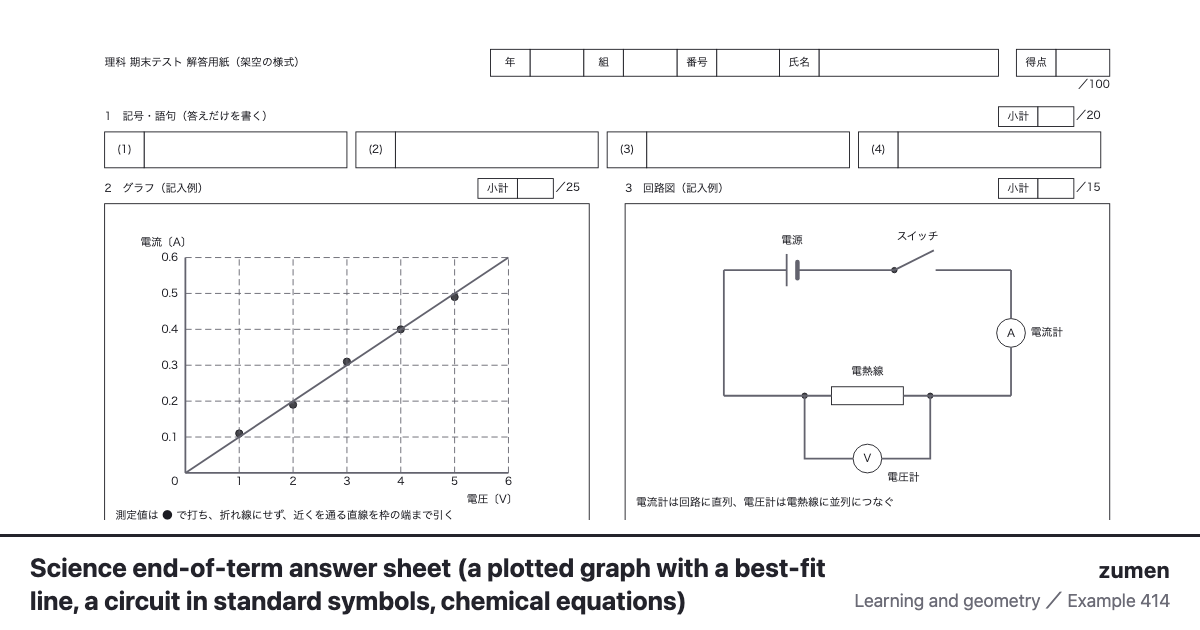
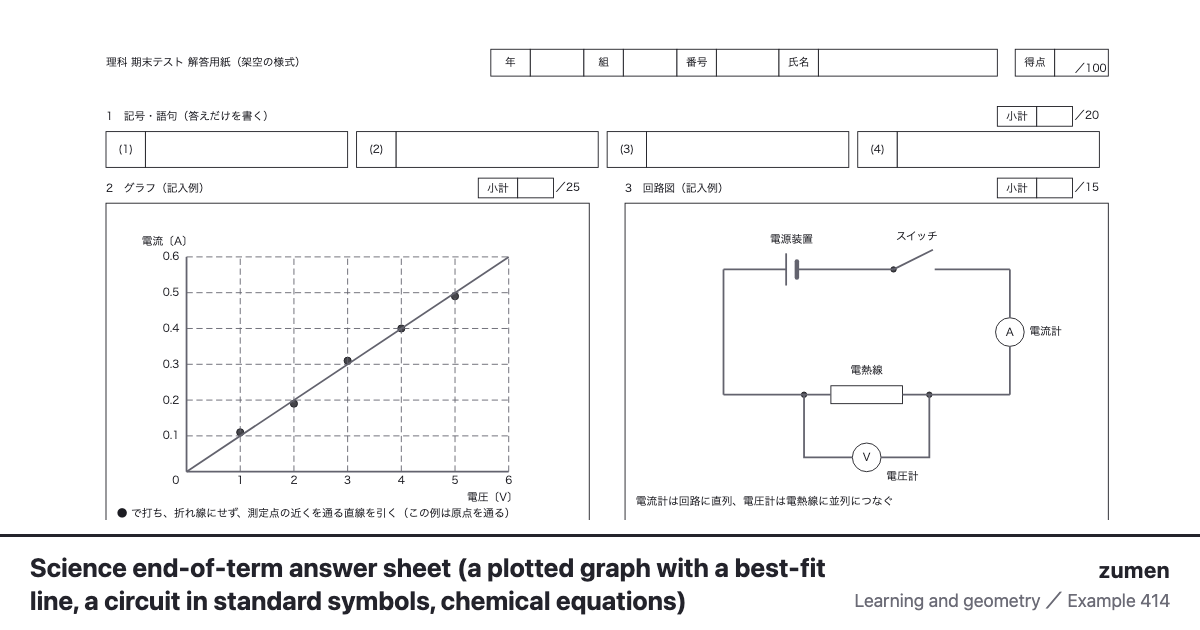
fix(見本): 414 を見直し —— 枠の端までは決まりでない・長い線が＋極
理科の先生の目での見直し。「枠の端まで引く」は宮城県の資料に無いので外し、「測定点の近くを通る直線」に。
電源は「電源装置」、長い線が＋極（ウィキブックス）、電流計・電圧計の＋端子は＋極側（香川県の補充プリント）
を足した。得点欄の「／100」を欄の中へ。直線の傾きは測定値と合っていた。

Claude-Session: https://claude.ai/code/session_01SsuPBZV9YaAZ9NJNDHvP2H

diff --git a/site/index.html b/site/index.html
@@ -353,7 +353,7 @@
     <figure data-cat="manabi"><picture><source srcset="gallery/411-国語の期末テストの解答用紙-dark.svg" media="(prefers-color-scheme: dark)"><img loading="lazy" decoding="async" width="1244" height="1060" src="gallery/411-国語の期末テストの解答用紙.svg" alt="架空の中学校の国語の期末テストの解答用紙。縦書きで、右の一から左へ読む。一は漢字の読み（ひらがなで）と書き（漢字で）の縦長の欄を 4 つずつ、二は記号の小さな四角を問一から問四まで、三は十字で抜き出す縦 10 マス、四は六十字以内の記述で原稿用紙のマス目 15 マス × 4 行。マス目には架空の例文を書き、1 行目の上を 1 マスあける・小さい「っ」も 1 マス・句読点は 1 マスに 1 つで行頭に書かない・行末の句点は最後のマスに前の字と一緒・会話は行を変えてかぎかっこで終わりの。と」は 1 マスに一緒、の 5 つの決まりに丸数字を付け、下の表で説明した。上に組・番・氏名・得点の欄"></picture><figcaption>国語の期末テストの解答用紙（縦書きで右から左へ。記述は原稿用紙のマス目）</figcaption></figure>
     <figure data-cat="manabi"><picture><source srcset="gallery/412-数学の期末テストの解答用紙-dark.svg" media="(prefers-color-scheme: dark)"><img loading="lazy" decoding="async" width="1164" height="1302" src="gallery/412-数学の期末テストの解答用紙.svg" alt="架空の中学校の数学の期末テストの解答用紙。上に年・組・番号・氏名・得点の欄。1 は答えだけを書く計算の欄、2 は cm・cm²・度の単位を刷り込んだ欄、3 は（解）の欄に式と考え方を書き、答は右の欄に分けて書く文章題。4 は線分 AB の垂直二等分線の作図で、A と B を中心にかいたコンパスの弧が交わる点 P・Q を結び、作図に使った弧を消さずに残した記入例。5 は原点 O と x 軸・y 軸と 1 目盛り 1 の方眼に、格子点 (0, 1) と (2, 2) を打って y = (1/2)x + 1 の直線を引いた記入例。6 は仮定・結論・証明の欄。下に、根号の中は最も小さい自然数・分数は約分・分母の有理化・円周率は π・作図の線は消さない・求め方を書く欄、という入試の注意を出典の県と並べた"></picture><figcaption>数学の期末テストの解答用紙（答えだけの欄・求め方の欄・作図・グラフ・証明。作図とグラフは記入例つき）</figcaption></figure>
     <figure data-cat="manabi"><picture><source srcset="gallery/413-英語の期末テストの解答用紙-dark.svg" media="(prefers-color-scheme: dark)"><img loading="lazy" decoding="async" width="1204" height="1068" src="gallery/413-英語の期末テストの解答用紙.svg" alt="架空の中学校の英語の期末テストの解答用紙。上から、記号で答えるリスニングの欄（放送の回数は問題ごとに放送で言う）、ア〜オを並べた順に記号を書く並べかえの欄、4 本ずつの罫が 3 段ある英作文の欄と語数を書く欄。英作文には 12 語の記入例を添え、短縮形 I'm は 1 語、コンマとピリオドは数えないと示した。その下に英語を書く 4 線を大きく描き、上からアセンダライン・ミーンライン・基線（太線）・ディセンダラインと名前を付け、大文字・a c e などの小文字・b d f h k l・g j p q y がどの線からどの線まで入るかを縦の帯で示した。下に書くときの決まりの一覧"></picture><figcaption>英語の期末テストの解答用紙（4 線の罫・並べかえ・語数を数える英作文）</figcaption></figure>
-    <figure data-cat="manabi"><picture><source srcset="gallery/414-理科の期末テストの解答用紙-dark.svg" media="(prefers-color-scheme: dark)"><img loading="lazy" decoding="async" width="1184" height="1054" src="gallery/414-理科の期末テストの解答用紙.svg" alt="架空の中学校の理科の期末テストの解答用紙。上に年・組・番号・氏名・得点の欄、大問ごとに小計と配点の欄。1 は記号・語句を答えだけ書く欄。2 はグラフの記入例で、横軸に電圧〔V〕、縦軸に電流〔A〕をとった方眼に測定値を黒丸で打ち、折れ線にせず原点を通る直線を枠の端まで引いた。3 は回路図の記入例で、電源（長い線と短い線）・スイッチ・電熱線（長方形）をつなぎ、電流計Ⓐを直列に、電圧計Ⓥを電熱線に並列につないだ。4 は化学式と化学反応式の欄で、記入例 2H₂ ＋ O₂ → 2H₂O。5 は理由を書く記述欄。下にグラフのかき方・単位の〔 〕・電気用図記号の注意"></picture><figcaption>理科の期末テストの解答用紙（点で打って直線を引くグラフ・電気用図記号の回路図・化学反応式）</figcaption></figure>
+    <figure data-cat="manabi"><picture><source srcset="gallery/414-理科の期末テストの解答用紙-dark.svg" media="(prefers-color-scheme: dark)"><img loading="lazy" decoding="async" width="1184" height="1104" src="gallery/414-理科の期末テストの解答用紙.svg" alt="架空の中学校の理科の期末テストの解答用紙。上に年・組・番号・氏名・得点の欄、大問ごとに小計と配点の欄。1 は記号・語句を答えだけ書く欄。2 はグラフの記入例で、横軸に電圧〔V〕、縦軸に電流〔A〕をとった方眼に測定値を黒丸で打ち、折れ線にせず原点を通る直線を枠の端まで引いた。3 は回路図の記入例で、電源装置（長い線が＋極）・スイッチ・電熱線（長方形）をつなぎ、電流計Ⓐを直列に、電圧計Ⓥを電熱線に並列につないだ。4 は化学式と化学反応式の欄で、記入例 2H₂ ＋ O₂ → 2H₂O。5 は理由を書く記述欄。下にグラフのかき方・単位の〔 〕・電気用図記号の注意"></picture><figcaption>理科の期末テストの解答用紙（点で打って直線を引くグラフ・電気用図記号の回路図・化学反応式）</figcaption></figure>
     <figure data-cat="manabi"><picture><source srcset="gallery/402-時差の世界地図-経度の帯と国が決めた時-dark.svg" media="(prefers-color-scheme: dark)"><img loading="lazy" decoding="async" width="1010" height="1082" src="gallery/402-時差の世界地図-経度の帯と国が決めた時.svg" alt="太平洋を真ん中に置いた世界地図に、経度 15° ごとの時差の帯（−2〜±12〜−3）を破線で引き、20 都市の実際の標準時を札で置いた図。経度どおりは白、国で決めて 1 時間以上ずれる所（ソウル・ラサ・マドリード・ホノルル）は青、30 分・45 分ずらす所（コルカタ +5:30・カトマンズ +5:45 など）は橙、経度 180° より東なのに日付が先の所（キリティマティ +14・アピア +13・チャタム +12:45）は紫。日本の標準時の東経 135° を赤い線で。下に都市ごとの経度・経度で決めた時差・標準時・夏時間・わけの表"></picture><figcaption>時差の世界地図（経度の帯と、国が決めた時）</figcaption></figure>
     <figure data-cat="manabi"><picture><source srcset="gallery/400-大圏航路と等角航路-東京からニューヨーク-dark.svg" media="(prefers-color-scheme: dark)"><img loading="lazy" decoding="async" width="1089" height="828" src="gallery/400-大圏航路と等角航路-東京からニューヨーク.svg" alt="東京からニューヨークへの 2 つの道を 2 つの図法で並べた図。左のメルカトル図法では、最短の大圏航路（赤）がアラスカの上まで北へ弧を描き、方位を一定に保つ等角航路（青の点線）がまっすぐな線になる。右の東京中心の正距方位図法では逆に、大圏航路が東京から引いた直線になり、等角航路が曲がる。5,000km・10,000km の距離の輪つき。下に長さ（約 10,850km と約 12,780km）と東京を出る向きの表"></picture><figcaption>大圏航路と等角航路（地図の直線は最短とは限らない）</figcaption></figure>
     <figure data-cat="manabi"><picture><source srcset="gallery/376-水面の波の干渉-線の本数-dark.svg" media="(prefers-color-scheme: dark)"><img loading="lazy" decoding="async" width="1396" height="1300" src="gallery/376-水面の波の干渉-線の本数.svg" alt="同じ波を出す 2 つの波源から広がる山と谷の円と、強め合う線（腹線）5 本・弱め合う線（節線）4 本を双曲線で描いた水面の干渉の図。距離の差が波長の整数倍で強め合い、半端で弱め合うことと、線の本数が波源の間隔と波長の比で決まること（d＝2.4λ で 5 本）を表と数直線で示している"></picture><figcaption>水面の波の干渉（線の本数は、波源の間隔と波長で決まる）</figcaption></figure>

diff --git a/site/all/index.html b/site/all/index.html
@@ -281,7 +281,7 @@
       <li data-name="411 国語の期末テストの解答用紙（縦書きで右から左へ。記述は原稿用紙のマス目） A fictional junior-high answer sheet for the Japanese-language test, in vertical lines read right to left: kanji boxes, multiple-choice boxes, a 10-square quote box and a 60-character answer on genko-yoshi squares. A sample answer shows five rules: indent one square, small kana take a square, no full stop at the top of a line, and dialogue starts a new line. 学び・図学"><a href="../g/411/"><img src="../gallery/411-%E5%9B%BD%E8%AA%9E%E3%81%AE%E6%9C%9F%E6%9C%AB%E3%83%86%E3%82%B9%E3%83%88%E3%81%AE%E8%A7%A3%E7%AD%94%E7%94%A8%E7%B4%99.svg" alt="架空の中学校の国語の期末テストの解答用紙。縦書きで、右の一から左へ読む。一は漢字の読み（ひらがなで）と書き（漢字で）の縦長の欄を 4 つずつ、二は記号の小さな四角を問一から問四まで、三は十字で抜き出す縦 10 マス、四は六十字以内の記述で原稿用紙のマス目 15 マス × 4 行。マス目には架空の例文を書き、1 行目の上を 1 マスあける・小さい「っ」も 1 マス・句読点は 1 マスに 1 つで行頭に書かない・行末の句点は最後のマスに前の字と一緒・会話は行を変えてかぎかっこで終わりの。と」は 1 マスに一緒、の 5 つの決まりに丸数字を付け、下の表で説明した。上に組・番・氏名・得点の欄" width="1244" height="1060" loading="lazy" decoding="async"><span>国語の期末テストの解答用紙（縦書きで右から左へ。記述は原稿用紙のマス目）</span></a></li>
       <li data-name="412 数学の期末テストの解答用紙（答えだけの欄・求め方の欄・作図・グラフ・証明。作図とグラフは記入例つき） A fictional Japanese junior-high maths answer sheet. Answer-only boxes, boxes with the unit (cm, cm², degrees) printed in, a working box kept apart from the answer, an example perpendicular bisector constructed with the compass arcs left in, an example graph of y = (1/2)x + 1 drawn through two lattice points, and a proof box with hypothesis and conclusion. Below, entrance-exam answer rules. 学び・図学"><a href="../g/412/"><img src="../gallery/412-%E6%95%B0%E5%AD%A6%E3%81%AE%E6%9C%9F%E6%9C%AB%E3%83%86%E3%82%B9%E3%83%88%E3%81%AE%E8%A7%A3%E7%AD%94%E7%94%A8%E7%B4%99.svg" alt="架空の中学校の数学の期末テストの解答用紙。上に年・組・番号・氏名・得点の欄。1 は答えだけを書く計算の欄、2 は cm・cm²・度の単位を刷り込んだ欄、3 は（解）の欄に式と考え方を書き、答は右の欄に分けて書く文章題。4 は線分 AB の垂直二等分線の作図で、A と B を中心にかいたコンパスの弧が交わる点 P・Q を結び、作図に使った弧を消さずに残した記入例。5 は原点 O と x 軸・y 軸と 1 目盛り 1 の方眼に、格子点 (0, 1) と (2, 2) を打って y = (1/2)x + 1 の直線を引いた記入例。6 は仮定・結論・証明の欄。下に、根号の中は最も小さい自然数・分数は約分・分母の有理化・円周率は π・作図の線は消さない・求め方を書く欄、という入試の注意を出典の県と並べた" width="1164" height="1302" loading="lazy" decoding="async"><span>数学の期末テストの解答用紙（答えだけの欄・求め方の欄・作図・グラフ・証明。作図とグラフは記入例つき）</span></a></li>
       <li data-name="413 英語の期末テストの解答用紙（4 線の罫・並べかえ・語数を数える英作文） A fictional junior-high English answer sheet: listening answers by letter, word-order boxes, and a composition on four-line ruled paper with a box for the word count (a contraction like I'm counts as one word; commas and periods do not). Below, the four lines drawn large and named, with bars showing which lines capitals, x-height letters, b d f h k l and g j p q y reach. 学び・図学"><a href="../g/413/"><img src="../gallery/413-%E8%8B%B1%E8%AA%9E%E3%81%AE%E6%9C%9F%E6%9C%AB%E3%83%86%E3%82%B9%E3%83%88%E3%81%AE%E8%A7%A3%E7%AD%94%E7%94%A8%E7%B4%99.svg" alt="架空の中学校の英語の期末テストの解答用紙。上から、記号で答えるリスニングの欄（放送の回数は問題ごとに放送で言う）、ア〜オを並べた順に記号を書く並べかえの欄、4 本ずつの罫が 3 段ある英作文の欄と語数を書く欄。英作文には 12 語の記入例を添え、短縮形 I'm は 1 語、コンマとピリオドは数えないと示した。その下に英語を書く 4 線を大きく描き、上からアセンダライン・ミーンライン・基線（太線）・ディセンダラインと名前を付け、大文字・a c e などの小文字・b d f h k l・g j p q y がどの線からどの線まで入るかを縦の帯で示した。下に書くときの決まりの一覧" width="1204" height="1068" loading="lazy" decoding="async"><span>英語の期末テストの解答用紙（4 線の罫・並べかえ・語数を数える英作文）</span></a></li>
-      <li data-name="414 理科の期末テストの解答用紙（点で打って直線を引くグラフ・電気用図記号の回路図・化学反応式） A fictional Japanese junior-high science answer sheet. The graph example plots voltage against current as dots and draws one straight line through the origin to the edge of the grid, never joining the dots. The circuit example uses standard symbols, with the ammeter in series and the voltmeter across the heater. Units go in brackets, as in Japanese exams. 学び・図学"><a href="../g/414/"><img src="../gallery/414-%E7%90%86%E7%A7%91%E3%81%AE%E6%9C%9F%E6%9C%AB%E3%83%86%E3%82%B9%E3%83%88%E3%81%AE%E8%A7%A3%E7%AD%94%E7%94%A8%E7%B4%99.svg" alt="架空の中学校の理科の期末テストの解答用紙。上に年・組・番号・氏名・得点の欄、大問ごとに小計と配点の欄。1 は記号・語句を答えだけ書く欄。2 はグラフの記入例で、横軸に電圧〔V〕、縦軸に電流〔A〕をとった方眼に測定値を黒丸で打ち、折れ線にせず原点を通る直線を枠の端まで引いた。3 は回路図の記入例で、電源（長い線と短い線）・スイッチ・電熱線（長方形）をつなぎ、電流計Ⓐを直列に、電圧計Ⓥを電熱線に並列につないだ。4 は化学式と化学反応式の欄で、記入例 2H₂ ＋ O₂ → 2H₂O。5 は理由を書く記述欄。下にグラフのかき方・単位の〔 〕・電気用図記号の注意" width="1184" height="1054" loading="lazy" decoding="async"><span>理科の期末テストの解答用紙（点で打って直線を引くグラフ・電気用図記号の回路図・化学反応式）</span></a></li>
+      <li data-name="414 理科の期末テストの解答用紙（点で打って直線を引くグラフ・電気用図記号の回路図・化学反応式） A fictional Japanese junior-high science answer sheet. The graph example plots voltage against current as dots and draws one straight line through the origin to the edge of the grid, never joining the dots. The circuit example uses standard symbols, with the ammeter in series and the voltmeter across the heater. Units go in brackets, as in Japanese exams. 学び・図学"><a href="../g/414/"><img src="../gallery/414-%E7%90%86%E7%A7%91%E3%81%AE%E6%9C%9F%E6%9C%AB%E3%83%86%E3%82%B9%E3%83%88%E3%81%AE%E8%A7%A3%E7%AD%94%E7%94%A8%E7%B4%99.svg" alt="架空の中学校の理科の期末テストの解答用紙。上に年・組・番号・氏名・得点の欄、大問ごとに小計と配点の欄。1 は記号・語句を答えだけ書く欄。2 はグラフの記入例で、横軸に電圧〔V〕、縦軸に電流〔A〕をとった方眼に測定値を黒丸で打ち、折れ線にせず原点を通る直線を枠の端まで引いた。3 は回路図の記入例で、電源装置（長い線が＋極）・スイッチ・電熱線（長方形）をつなぎ、電流計Ⓐを直列に、電圧計Ⓥを電熱線に並列につないだ。4 は化学式と化学反応式の欄で、記入例 2H₂ ＋ O₂ → 2H₂O。5 は理由を書く記述欄。下にグラフのかき方・単位の〔 〕・電気用図記号の注意" width="1184" height="1104" loading="lazy" decoding="async"><span>理科の期末テストの解答用紙（点で打って直線を引くグラフ・電気用図記号の回路図・化学反応式）</span></a></li>
     </ul>
   </section>
   <section class="field" data-field="楽器・音響">

diff --git a/site/en/index.html b/site/en/index.html
@@ -326,7 +326,7 @@
     <figure data-cat="manabi"><picture><source srcset="../gallery/411-国語の期末テストの解答用紙-dark.svg" media="(prefers-color-scheme: dark)"><img loading="lazy" decoding="async" width="1244" height="1060" src="../gallery/411-国語の期末テストの解答用紙.svg" alt="A fictional junior-high answer sheet for the Japanese-language test, in vertical lines read right to left: kanji boxes, multiple-choice boxes, a 10-square quote box and a 60-character answer on genko-yoshi squares. A sample answer shows five rules: indent one square, small kana take a square, no full stop at the top of a line, and dialogue starts a new line."></picture><figcaption>A fictional junior-high answer sheet for the Japanese-language test, in vertical lines read right to left: kanji boxes, multiple-choice boxes, a 10-square quote box and a 60-character answer on genko-yoshi squares. A sample answer shows five rules: indent one square, small kana take a square, no full stop at the top of a line, and dialogue starts a new line.</figcaption></figure>
     <figure data-cat="manabi"><picture><source srcset="../gallery/412-数学の期末テストの解答用紙-dark.svg" media="(prefers-color-scheme: dark)"><img loading="lazy" decoding="async" width="1164" height="1302" src="../gallery/412-数学の期末テストの解答用紙.svg" alt="A fictional Japanese junior-high maths answer sheet. Answer-only boxes, boxes with the unit (cm, cm², degrees) printed in, a working box kept apart from the answer, an example perpendicular bisector constructed with the compass arcs left in, an example graph of y = (1/2)x + 1 drawn through two lattice points, and a proof box with hypothesis and conclusion. Below, entrance-exam answer rules."></picture><figcaption>A fictional Japanese junior-high maths answer sheet. Answer-only boxes, boxes with the unit (cm, cm², degrees) printed in, a working box kept apart from the answer, an example perpendicular bisector constructed with the compass arcs left in, an example graph of y = (1/2)x + 1 drawn through two lattice points, and a proof box with hypothesis and conclusion. Below, entrance-exam answer rules.</figcaption></figure>
     <figure data-cat="manabi"><picture><source srcset="../gallery/413-英語の期末テストの解答用紙-dark.svg" media="(prefers-color-scheme: dark)"><img loading="lazy" decoding="async" width="1204" height="1068" src="../gallery/413-英語の期末テストの解答用紙.svg" alt="A fictional junior-high English answer sheet: listening answers by letter, word-order boxes, and a composition on four-line ruled paper with a box for the word count (a contraction like I'm counts as one word; commas and periods do not). Below, the four lines drawn large and named, with bars showing which lines capitals, x-height letters, b d f h k l and g j p q y reach."></picture><figcaption>A fictional junior-high English answer sheet: listening answers by letter, word-order boxes, and a composition on four-line ruled paper with a box for the word count (a contraction like I'm counts as one word; commas and periods do not). Below, the four lines drawn large and named, with bars showing which lines capitals, x-height letters, b d f h k l and g j p q y reach.</figcaption></figure>
-    <figure data-cat="manabi"><picture><source srcset="../gallery/414-理科の期末テストの解答用紙-dark.svg" media="(prefers-color-scheme: dark)"><img loading="lazy" decoding="async" width="1184" height="1054" src="../gallery/414-理科の期末テストの解答用紙.svg" alt="A fictional Japanese junior-high science answer sheet. The graph example plots voltage against current as dots and draws one straight line through the origin to the edge of the grid, never joining the dots. The circuit example uses standard symbols, with the ammeter in series and the voltmeter across the heater. Units go in brackets, as in Japanese exams."></picture><figcaption>A fictional Japanese junior-high science answer sheet. The graph example plots voltage against current as dots and draws one straight line through the origin to the edge of the grid, never joining the dots. The circuit example uses standard symbols, with the ammeter in series and the voltmeter across the heater. Units go in brackets, as in Japanese exams.</figcaption></figure>
+    <figure data-cat="manabi"><picture><source srcset="../gallery/414-理科の期末テストの解答用紙-dark.svg" media="(prefers-color-scheme: dark)"><img loading="lazy" decoding="async" width="1184" height="1104" src="../gallery/414-理科の期末テストの解答用紙.svg" alt="A fictional Japanese junior-high science answer sheet. The graph example plots voltage against current as dots and draws one straight line through the origin to the edge of the grid, never joining the dots. The circuit example uses standard symbols, with the ammeter in series and the voltmeter across the heater. Units go in brackets, as in Japanese exams."></picture><figcaption>A fictional Japanese junior-high science answer sheet. The graph example plots voltage against current as dots and draws one straight line through the origin to the edge of the grid, never joining the dots. The circuit example uses standard symbols, with the ammeter in series and the voltmeter across the heater. Units go in brackets, as in Japanese exams.</figcaption></figure>
     <figure data-cat="manabi"><picture><source srcset="../gallery/402-時差の世界地図-経度の帯と国が決めた時-dark.svg" media="(prefers-color-scheme: dark)"><img loading="lazy" decoding="async" width="1010" height="1082" src="../gallery/402-時差の世界地図-経度の帯と国が決めた時.svg" alt="Every 15 degrees of longitude is an hour, but clocks follow borders. Twenty cities from the IANA tz database sit on the nominal bands: Seoul keeps Japan's 135-degree time, all of China keeps +8, Kolkata +5:30 and Kathmandu +5:45, and Kiritimati and Apia lie east of 180 degrees yet keep +14 and +13, a whole day ahead of Pago Pago next door."></picture><figcaption>Every 15 degrees of longitude is an hour, but clocks follow borders. Twenty cities from the IANA tz database sit on the nominal bands: Seoul keeps Japan's 135-degree time, all of China keeps +8, Kolkata +5:30 and Kathmandu +5:45, and Kiritimati and Apia lie east of 180 degrees yet keep +14 and +13, a whole day ahead of Pago Pago next door.</figcaption></figure>
     <figure data-cat="manabi"><picture><source srcset="../gallery/400-大圏航路と等角航路-東京からニューヨーク-dark.svg" media="(prefers-color-scheme: dark)"><img loading="lazy" decoding="async" width="1089" height="828" src="../gallery/400-大圏航路と等角航路-東京からニューヨーク.svg" alt="Tokyo to New York two ways on two projections: on Mercator the shortest great-circle route arcs up over Alaska while the constant-bearing rhumb line is straight; on an azimuthal equidistant map centred on Tokyo the great circle is the straight line and the rhumb line bends. About 10,850 km against 12,780 km."></picture><figcaption>Tokyo to New York two ways on two projections: on Mercator the shortest great-circle route arcs up over Alaska while the constant-bearing rhumb line is straight; on an azimuthal equidistant map centred on Tokyo the great circle is the straight line and the rhumb line bends. About 10,850 km against 12,780 km.</figcaption></figure>
     <figure data-cat="manabi"><picture><source srcset="../gallery/376-水面の波の干渉-線の本数-dark.svg" media="(prefers-color-scheme: dark)"><img loading="lazy" decoding="async" width="1396" height="1300" src="../gallery/376-水面の波の干渉-線の本数.svg" alt="Two-source interference on water: crests and troughs from two sources in step, with five lines of reinforcement and four of cancellation drawn as hyperbolas. The path difference can never exceed the source spacing, so the number of lines is fixed by spacing divided by wavelength"></picture><figcaption>Two-source interference on water: crests and troughs from two sources in step, with five lines of reinforcement and four of cancellation drawn as hyperbolas. The path difference can never exceed the source spacing, so the number of lines is fixed by spacing divided by wavelength</figcaption></figure>

diff --git a/site/en/all/index.html b/site/en/all/index.html
@@ -281,7 +281,7 @@
       <li data-name="411 国語の期末テストの解答用紙（縦書きで右から左へ。記述は原稿用紙のマス目） A fictional junior-high answer sheet for the Japanese-language test, in vertical lines read right to left: kanji boxes, multiple-choice boxes, a 10-square quote box and a 60-character answer on genko-yoshi squares. A sample answer shows five rules: indent one square, small kana take a square, no full stop at the top of a line, and dialogue starts a new line. Learning and geometry"><a href="../g/411/"><img src="../../gallery/411-%E5%9B%BD%E8%AA%9E%E3%81%AE%E6%9C%9F%E6%9C%AB%E3%83%86%E3%82%B9%E3%83%88%E3%81%AE%E8%A7%A3%E7%AD%94%E7%94%A8%E7%B4%99.svg" alt="A fictional junior-high answer sheet for the Japanese-language test, in vertical lines read right to left: kanji boxes, multiple-choice boxes, a 10-square quote box and a 60-character answer on genko-yoshi squares. A sample answer shows five rules: indent one square, small kana take a square, no full stop at the top of a line, and dialogue starts a new line." width="1244" height="1060" loading="lazy" decoding="async"><span>A fictional junior-high answer sheet for the Japanese-language test, in vertical lines read right to left: kanji boxes, multiple-choice boxes, a 10-square quote box and a 60-character answer on genko-yoshi squares. A sample answer shows five rules: indent one square, small kana take a square, no full stop at the top of a line, and dialogue starts a new line.</span></a></li>
       <li data-name="412 数学の期末テストの解答用紙（答えだけの欄・求め方の欄・作図・グラフ・証明。作図とグラフは記入例つき） A fictional Japanese junior-high maths answer sheet. Answer-only boxes, boxes with the unit (cm, cm², degrees) printed in, a working box kept apart from the answer, an example perpendicular bisector constructed with the compass arcs left in, an example graph of y = (1/2)x + 1 drawn through two lattice points, and a proof box with hypothesis and conclusion. Below, entrance-exam answer rules. Learning and geometry"><a href="../g/412/"><img src="../../gallery/412-%E6%95%B0%E5%AD%A6%E3%81%AE%E6%9C%9F%E6%9C%AB%E3%83%86%E3%82%B9%E3%83%88%E3%81%AE%E8%A7%A3%E7%AD%94%E7%94%A8%E7%B4%99.svg" alt="A fictional Japanese junior-high maths answer sheet. Answer-only boxes, boxes with the unit (cm, cm², degrees) printed in, a working box kept apart from the answer, an example perpendicular bisector constructed with the compass arcs left in, an example graph of y = (1/2)x + 1 drawn through two lattice points, and a proof box with hypothesis and conclusion. Below, entrance-exam answer rules." width="1164" height="1302" loading="lazy" decoding="async"><span>A fictional Japanese junior-high maths answer sheet. Answer-only boxes, boxes with the unit (cm, cm², degrees) printed in, a working box kept apart from the answer, an example perpendicular bisector constructed with the compass arcs left in, an example graph of y = (1/2)x + 1 drawn through two lattice points, and a proof box with hypothesis and conclusion. Below, entrance-exam answer rules.</span></a></li>
       <li data-name="413 英語の期末テストの解答用紙（4 線の罫・並べかえ・語数を数える英作文） A fictional junior-high English answer sheet: listening answers by letter, word-order boxes, and a composition on four-line ruled paper with a box for the word count (a contraction like I'm counts as one word; commas and periods do not). Below, the four lines drawn large and named, with bars showing which lines capitals, x-height letters, b d f h k l and g j p q y reach. Learning and geometry"><a href="../g/413/"><img src="../../gallery/413-%E8%8B%B1%E8%AA%9E%E3%81%AE%E6%9C%9F%E6%9C%AB%E3%83%86%E3%82%B9%E3%83%88%E3%81%AE%E8%A7%A3%E7%AD%94%E7%94%A8%E7%B4%99.svg" alt="A fictional junior-high English answer sheet: listening answers by letter, word-order boxes, and a composition on four-line ruled paper with a box for the word count (a contraction like I'm counts as one word; commas and periods do not). Below, the four lines drawn large and named, with bars showing which lines capitals, x-height letters, b d f h k l and g j p q y reach." width="1204" height="1068" loading="lazy" decoding="async"><span>A fictional junior-high English answer sheet: listening answers by letter, word-order boxes, and a composition on four-line ruled paper with a box for the word count (a contraction like I'm counts as one word; commas and periods do not). Below, the four lines drawn large and named, with bars showing which lines capitals, x-height letters, b d f h k l and g j p q y reach.</span></a></li>
-      <li data-name="414 理科の期末テストの解答用紙（点で打って直線を引くグラフ・電気用図記号の回路図・化学反応式） A fictional Japanese junior-high science answer sheet. The graph example plots voltage against current as dots and draws one straight line through the origin to the edge of the grid, never joining the dots. The circuit example uses standard symbols, with the ammeter in series and the voltmeter across the heater. Units go in brackets, as in Japanese exams. Learning and geometry"><a href="../g/414/"><img src="../../gallery/414-%E7%90%86%E7%A7%91%E3%81%AE%E6%9C%9F%E6%9C%AB%E3%83%86%E3%82%B9%E3%83%88%E3%81%AE%E8%A7%A3%E7%AD%94%E7%94%A8%E7%B4%99.svg" alt="A fictional Japanese junior-high science answer sheet. The graph example plots voltage against current as dots and draws one straight line through the origin to the edge of the grid, never joining the dots. The circuit example uses standard symbols, with the ammeter in series and the voltmeter across the heater. Units go in brackets, as in Japanese exams." width="1184" height="1054" loading="lazy" decoding="async"><span>A fictional Japanese junior-high science answer sheet. The graph example plots voltage against current as dots and draws one straight line through the origin to the edge of the grid, never joining the dots. The circuit example uses standard symbols, with the ammeter in series and the voltmeter across the heater. Units go in brackets, as in Japanese exams.</span></a></li>
+      <li data-name="414 理科の期末テストの解答用紙（点で打って直線を引くグラフ・電気用図記号の回路図・化学反応式） A fictional Japanese junior-high science answer sheet. The graph example plots voltage against current as dots and draws one straight line through the origin to the edge of the grid, never joining the dots. The circuit example uses standard symbols, with the ammeter in series and the voltmeter across the heater. Units go in brackets, as in Japanese exams. Learning and geometry"><a href="../g/414/"><img src="../../gallery/414-%E7%90%86%E7%A7%91%E3%81%AE%E6%9C%9F%E6%9C%AB%E3%83%86%E3%82%B9%E3%83%88%E3%81%AE%E8%A7%A3%E7%AD%94%E7%94%A8%E7%B4%99.svg" alt="A fictional Japanese junior-high science answer sheet. The graph example plots voltage against current as dots and draws one straight line through the origin to the edge of the grid, never joining the dots. The circuit example uses standard symbols, with the ammeter in series and the voltmeter across the heater. Units go in brackets, as in Japanese exams." width="1184" height="1104" loading="lazy" decoding="async"><span>A fictional Japanese junior-high science answer sheet. The graph example plots voltage against current as dots and draws one straight line through the origin to the edge of the grid, never joining the dots. The circuit example uses standard symbols, with the ammeter in series and the voltmeter across the heater. Units go in brackets, as in Japanese exams.</span></a></li>
     </ul>
   </section>
   <section class="field" data-field="Instruments and acoustics">

diff --git a/site/c/manabi/index.html b/site/c/manabi/index.html
@@ -347,7 +347,7 @@
     <li><a href="../../g/411/"><img src="../../gallery/411-%E5%9B%BD%E8%AA%9E%E3%81%AE%E6%9C%9F%E6%9C%AB%E3%83%86%E3%82%B9%E3%83%88%E3%81%AE%E8%A7%A3%E7%AD%94%E7%94%A8%E7%B4%99.svg" alt="架空の中学校の国語の期末テストの解答用紙。縦書きで、右の一から左へ読む。一は漢字の読み（ひらがなで）と書き（漢字で）の縦長の欄を 4 つずつ、二は記号の小さな四角を問一から問四まで、三は十字で抜き出す縦 10 マス、四は六十字以内の記述で原稿用紙のマス目 15 マス × 4 行。マス目には架空の例文を書き、1 行目の上を 1 マスあける・小さい「っ」も 1 マス・句読点は 1 マスに 1 つで行頭に書かない・行末の句点は最後のマスに前の字と一緒・会話は行を変えてかぎかっこで終わりの。と」は 1 マスに一緒、の 5 つの決まりに丸数字を付け、下の表で説明した。上に組・番・氏名・得点の欄" width="1244" height="1060" loading="lazy" decoding="async"><span>国語の期末テストの解答用紙（縦書きで右から左へ。記述は原稿用紙のマス目）</span></a></li>
     <li><a href="../../g/412/"><img src="../../gallery/412-%E6%95%B0%E5%AD%A6%E3%81%AE%E6%9C%9F%E6%9C%AB%E3%83%86%E3%82%B9%E3%83%88%E3%81%AE%E8%A7%A3%E7%AD%94%E7%94%A8%E7%B4%99.svg" alt="架空の中学校の数学の期末テストの解答用紙。上に年・組・番号・氏名・得点の欄。1 は答えだけを書く計算の欄、2 は cm・cm²・度の単位を刷り込んだ欄、3 は（解）の欄に式と考え方を書き、答は右の欄に分けて書く文章題。4 は線分 AB の垂直二等分線の作図で、A と B を中心にかいたコンパスの弧が交わる点 P・Q を結び、作図に使った弧を消さずに残した記入例。5 は原点 O と x 軸・y 軸と 1 目盛り 1 の方眼に、格子点 (0, 1) と (2, 2) を打って y = (1/2)x + 1 の直線を引いた記入例。6 は仮定・結論・証明の欄。下に、根号の中は最も小さい自然数・分数は約分・分母の有理化・円周率は π・作図の線は消さない・求め方を書く欄、という入試の注意を出典の県と並べた" width="1164" height="1302" loading="lazy" decoding="async"><span>数学の期末テストの解答用紙（答えだけの欄・求め方の欄・作図・グラフ・証明。作図とグラフは記入例つき）</span></a></li>
     <li><a href="../../g/413/"><img src="../../gallery/413-%E8%8B%B1%E8%AA%9E%E3%81%AE%E6%9C%9F%E6%9C%AB%E3%83%86%E3%82%B9%E3%83%88%E3%81%AE%E8%A7%A3%E7%AD%94%E7%94%A8%E7%B4%99.svg" alt="架空の中学校の英語の期末テストの解答用紙。上から、記号で答えるリスニングの欄（放送の回数は問題ごとに放送で言う）、ア〜オを並べた順に記号を書く並べかえの欄、4 本ずつの罫が 3 段ある英作文の欄と語数を書く欄。英作文には 12 語の記入例を添え、短縮形 I'm は 1 語、コンマとピリオドは数えないと示した。その下に英語を書く 4 線を大きく描き、上からアセンダライン・ミーンライン・基線（太線）・ディセンダラインと名前を付け、大文字・a c e などの小文字・b d f h k l・g j p q y がどの線からどの線まで入るかを縦の帯で示した。下に書くときの決まりの一覧" width="1204" height="1068" loading="lazy" decoding="async"><span>英語の期末テストの解答用紙（4 線の罫・並べかえ・語数を数える英作文）</span></a></li>
-    <li><a href="../../g/414/"><img src="../../gallery/414-%E7%90%86%E7%A7%91%E3%81%AE%E6%9C%9F%E6%9C%AB%E3%83%86%E3%82%B9%E3%83%88%E3%81%AE%E8%A7%A3%E7%AD%94%E7%94%A8%E7%B4%99.svg" alt="架空の中学校の理科の期末テストの解答用紙。上に年・組・番号・氏名・得点の欄、大問ごとに小計と配点の欄。1 は記号・語句を答えだけ書く欄。2 はグラフの記入例で、横軸に電圧〔V〕、縦軸に電流〔A〕をとった方眼に測定値を黒丸で打ち、折れ線にせず原点を通る直線を枠の端まで引いた。3 は回路図の記入例で、電源（長い線と短い線）・スイッチ・電熱線（長方形）をつなぎ、電流計Ⓐを直列に、電圧計Ⓥを電熱線に並列につないだ。4 は化学式と化学反応式の欄で、記入例 2H₂ ＋ O₂ → 2H₂O。5 は理由を書く記述欄。下にグラフのかき方・単位の〔 〕・電気用図記号の注意" width="1184" height="1054" loading="lazy" decoding="async"><span>理科の期末テストの解答用紙（点で打って直線を引くグラフ・電気用図記号の回路図・化学反応式）</span></a></li>
+    <li><a href="../../g/414/"><img src="../../gallery/414-%E7%90%86%E7%A7%91%E3%81%AE%E6%9C%9F%E6%9C%AB%E3%83%86%E3%82%B9%E3%83%88%E3%81%AE%E8%A7%A3%E7%AD%94%E7%94%A8%E7%B4%99.svg" alt="架空の中学校の理科の期末テストの解答用紙。上に年・組・番号・氏名・得点の欄、大問ごとに小計と配点の欄。1 は記号・語句を答えだけ書く欄。2 はグラフの記入例で、横軸に電圧〔V〕、縦軸に電流〔A〕をとった方眼に測定値を黒丸で打ち、折れ線にせず原点を通る直線を枠の端まで引いた。3 は回路図の記入例で、電源装置（長い線が＋極）・スイッチ・電熱線（長方形）をつなぎ、電流計Ⓐを直列に、電圧計Ⓥを電熱線に並列につないだ。4 は化学式と化学反応式の欄で、記入例 2H₂ ＋ O₂ → 2H₂O。5 は理由を書く記述欄。下にグラフのかき方・単位の〔 〕・電気用図記号の注意" width="1184" height="1104" loading="lazy" decoding="async"><span>理科の期末テストの解答用紙（点で打って直線を引くグラフ・電気用図記号の回路図・化学反応式）</span></a></li>
   </ul>
 </article>
 </main>

diff --git a/site/en/c/manabi/index.html b/site/en/c/manabi/index.html
@@ -347,7 +347,7 @@
     <li><a href="../../../g/411/"><img src="../../../gallery/411-%E5%9B%BD%E8%AA%9E%E3%81%AE%E6%9C%9F%E6%9C%AB%E3%83%86%E3%82%B9%E3%83%88%E3%81%AE%E8%A7%A3%E7%AD%94%E7%94%A8%E7%B4%99.svg" alt="A fictional junior-high answer sheet for the Japanese-language test, in vertical lines read right to left: kanji boxes, multiple-choice boxes, a 10-square quote box and a 60-character answer on genko-yoshi squares. A sample answer shows five rules: indent one square, small kana take a square, no full stop at the top of a line, and dialogue starts a new line." width="1244" height="1060" loading="lazy" decoding="async"><span>A fictional junior-high answer sheet for the Japanese-language test, in vertical lines read right to left: kanji boxes, multiple-choice boxes, a 10-square quote box and a 60-character answer on genko-yoshi squares. A sample answer shows five rules: indent one square, small kana take a square, no full stop at the top of a line, and dialogue starts a new line.</span></a></li>
     <li><a href="../../../g/412/"><img src="../../../gallery/412-%E6%95%B0%E5%AD%A6%E3%81%AE%E6%9C%9F%E6%9C%AB%E3%83%86%E3%82%B9%E3%83%88%E3%81%AE%E8%A7%A3%E7%AD%94%E7%94%A8%E7%B4%99.svg" alt="A fictional Japanese junior-high maths answer sheet. Answer-only boxes, boxes with the unit (cm, cm², degrees) printed in, a working box kept apart from the answer, an example perpendicular bisector constructed with the compass arcs left in, an example graph of y = (1/2)x + 1 drawn through two lattice points, and a proof box with hypothesis and conclusion. Below, entrance-exam answer rules." width="1164" height="1302" loading="lazy" decoding="async"><span>A fictional Japanese junior-high maths answer sheet. Answer-only boxes, boxes with the unit (cm, cm², degrees) printed in, a working box kept apart from the answer, an example perpendicular bisector constructed with the compass arcs left in, an example graph of y = (1/2)x + 1 drawn through two lattice points, and a proof box with hypothesis and conclusion. Below, entrance-exam answer rules.</span></a></li>
     <li><a href="../../../g/413/"><img src="../../../gallery/413-%E8%8B%B1%E8%AA%9E%E3%81%AE%E6%9C%9F%E6%9C%AB%E3%83%86%E3%82%B9%E3%83%88%E3%81%AE%E8%A7%A3%E7%AD%94%E7%94%A8%E7%B4%99.svg" alt="A fictional junior-high English answer sheet: listening answers by letter, word-order boxes, and a composition on four-line ruled paper with a box for the word count (a contraction like I'm counts as one word; commas and periods do not). Below, the four lines drawn large and named, with bars showing which lines capitals, x-height letters, b d f h k l and g j p q y reach." width="1204" height="1068" loading="lazy" decoding="async"><span>A fictional junior-high English answer sheet: listening answers by letter, word-order boxes, and a composition on four-line ruled paper with a box for the word count (a contraction like I'm counts as one word; commas and periods do not). Below, the four lines drawn large and named, with bars showing which lines capitals, x-height letters, b d f h k l and g j p q y reach.</span></a></li>
-    <li><a href="../../../g/414/"><img src="../../../gallery/414-%E7%90%86%E7%A7%91%E3%81%AE%E6%9C%9F%E6%9C%AB%E3%83%86%E3%82%B9%E3%83%88%E3%81%AE%E8%A7%A3%E7%AD%94%E7%94%A8%E7%B4%99.svg" alt="A fictional Japanese junior-high science answer sheet. The graph example plots voltage against current as dots and draws one straight line through the origin to the edge of the grid, never joining the dots. The circuit example uses standard symbols, with the ammeter in series and the voltmeter across the heater. Units go in brackets, as in Japanese exams." width="1184" height="1054" loading="lazy" decoding="async"><span>A fictional Japanese junior-high science answer sheet. The graph example plots voltage against current as dots and draws one straight line through the origin to the edge of the grid, never joining the dots. The circuit example uses standard symbols, with the ammeter in series and the voltmeter across the heater. Units go in brackets, as in Japanese exams.</span></a></li>
+    <li><a href="../../../g/414/"><img src="../../../gallery/414-%E7%90%86%E7%A7%91%E3%81%AE%E6%9C%9F%E6%9C%AB%E3%83%86%E3%82%B9%E3%83%88%E3%81%AE%E8%A7%A3%E7%AD%94%E7%94%A8%E7%B4%99.svg" alt="A fictional Japanese junior-high science answer sheet. The graph example plots voltage against current as dots and draws one straight line through the origin to the edge of the grid, never joining the dots. The circuit example uses standard symbols, with the ammeter in series and the voltmeter across the heater. Units go in brackets, as in Japanese exams." width="1184" height="1104" loading="lazy" decoding="async"><span>A fictional Japanese junior-high science answer sheet. The graph example plots voltage against current as dots and draws one straight line through the origin to the edge of the grid, never joining the dots. The circuit example uses standard symbols, with the ammeter in series and the voltmeter across the heater. Units go in brackets, as in Japanese exams.</span></a></li>
   </ul>
 </article>
 </main>

diff --git a/site/g/414/index.html b/site/g/414/index.html
@@ -41,7 +41,7 @@
       "@type": "ImageObject",
       "contentUrl": "https://meta-taro.github.io/zumen/gallery/414-%E7%90%86%E7%A7%91%E3%81%AE%E6%9C%9F%E6%9C%AB%E3%83%86%E3%82%B9%E3%83%88%E3%81%AE%E8%A7%A3%E7%AD%94%E7%94%A8%E7%B4%99.svg",
       "caption": "理科の期末テストの解答用紙（点で打って直線を引くグラフ・電気用図記号の回路図・化学反応式）",
-      "description": "架空の中学校の理科の期末テストの解答用紙。上に年・組・番号・氏名・得点の欄、大問ごとに小計と配点の欄。1 は記号・語句を答えだけ書く欄。2 はグラフの記入例で、横軸に電圧〔V〕、縦軸に電流〔A〕をとった方眼に測定値を黒丸で打ち、折れ線にせず原点を通る直線を枠の端まで引いた。3 は回路図の記入例で、電源（長い線と短い線）・スイッチ・電熱線（長方形）をつなぎ、電流計Ⓐを直列に、電圧計Ⓥを電熱線に並列につないだ。4 は化学式と化学反応式の欄で、記入例 2H₂ ＋ O₂ → 2H₂O。5 は理由を書く記述欄。下にグラフのかき方・単位の〔 〕・電気用図記号の注意",
+      "description": "架空の中学校の理科の期末テストの解答用紙。上に年・組・番号・氏名・得点の欄、大問ごとに小計と配点の欄。1 は記号・語句を答えだけ書く欄。2 はグラフの記入例で、横軸に電圧〔V〕、縦軸に電流〔A〕をとった方眼に測定値を黒丸で打ち、折れ線にせず原点を通る直線を枠の端まで引いた。3 は回路図の記入例で、電源装置（長い線が＋極）・スイッチ・電熱線（長方形）をつなぎ、電流計Ⓐを直列に、電圧計Ⓥを電熱線に並列につないだ。4 は化学式と化学反応式の欄で、記入例 2H₂ ＋ O₂ → 2H₂O。5 は理由を書く記述欄。下にグラフのかき方・単位の〔 〕・電気用図記号の注意",
       "encodingFormat": "image/svg+xml",
       "license": "https://opensource.org/licenses/MIT",
       "acquireLicensePage": "https://github.com/meta-taro/zumen/blob/main/LICENSE",
@@ -106,7 +106,7 @@
   <h1>理科の期末テストの解答用紙（点で打って直線を引くグラフ・電気用図記号の回路図・化学反応式。記入例つき）</h1>
   <p class="lead">理科の期末テストの解答用紙（点で打って直線を引くグラフ・電気用図記号の回路図・化学反応式）</p>
   <figure>
-    <img src="../../gallery/414-%E7%90%86%E7%A7%91%E3%81%AE%E6%9C%9F%E6%9C%AB%E3%83%86%E3%82%B9%E3%83%88%E3%81%AE%E8%A7%A3%E7%AD%94%E7%94%A8%E7%B4%99.svg" alt="架空の中学校の理科の期末テストの解答用紙。上に年・組・番号・氏名・得点の欄、大問ごとに小計と配点の欄。1 は記号・語句を答えだけ書く欄。2 はグラフの記入例で、横軸に電圧〔V〕、縦軸に電流〔A〕をとった方眼に測定値を黒丸で打ち、折れ線にせず原点を通る直線を枠の端まで引いた。3 は回路図の記入例で、電源（長い線と短い線）・スイッチ・電熱線（長方形）をつなぎ、電流計Ⓐを直列に、電圧計Ⓥを電熱線に並列につないだ。4 は化学式と化学反応式の欄で、記入例 2H₂ ＋ O₂ → 2H₂O。5 は理由を書く記述欄。下にグラフのかき方・単位の〔 〕・電気用図記号の注意" loading="lazy">
+    <img src="../../gallery/414-%E7%90%86%E7%A7%91%E3%81%AE%E6%9C%9F%E6%9C%AB%E3%83%86%E3%82%B9%E3%83%88%E3%81%AE%E8%A7%A3%E7%AD%94%E7%94%A8%E7%B4%99.svg" alt="架空の中学校の理科の期末テストの解答用紙。上に年・組・番号・氏名・得点の欄、大問ごとに小計と配点の欄。1 は記号・語句を答えだけ書く欄。2 はグラフの記入例で、横軸に電圧〔V〕、縦軸に電流〔A〕をとった方眼に測定値を黒丸で打ち、折れ線にせず原点を通る直線を枠の端まで引いた。3 は回路図の記入例で、電源装置（長い線が＋極）・スイッチ・電熱線（長方形）をつなぎ、電流計Ⓐを直列に、電圧計Ⓥを電熱線に並列につないだ。4 は化学式と化学反応式の欄で、記入例 2H₂ ＋ O₂ → 2H₂O。5 は理由を書く記述欄。下にグラフのかき方・単位の〔 〕・電気用図記号の注意" loading="lazy">
   </figure>
   <p class="made">この図は、下の 1 枚の YAML から描かれています。手で図形を動かしてはいません。</p>
   <h2>正本に書いてある決まりごと</h2>
